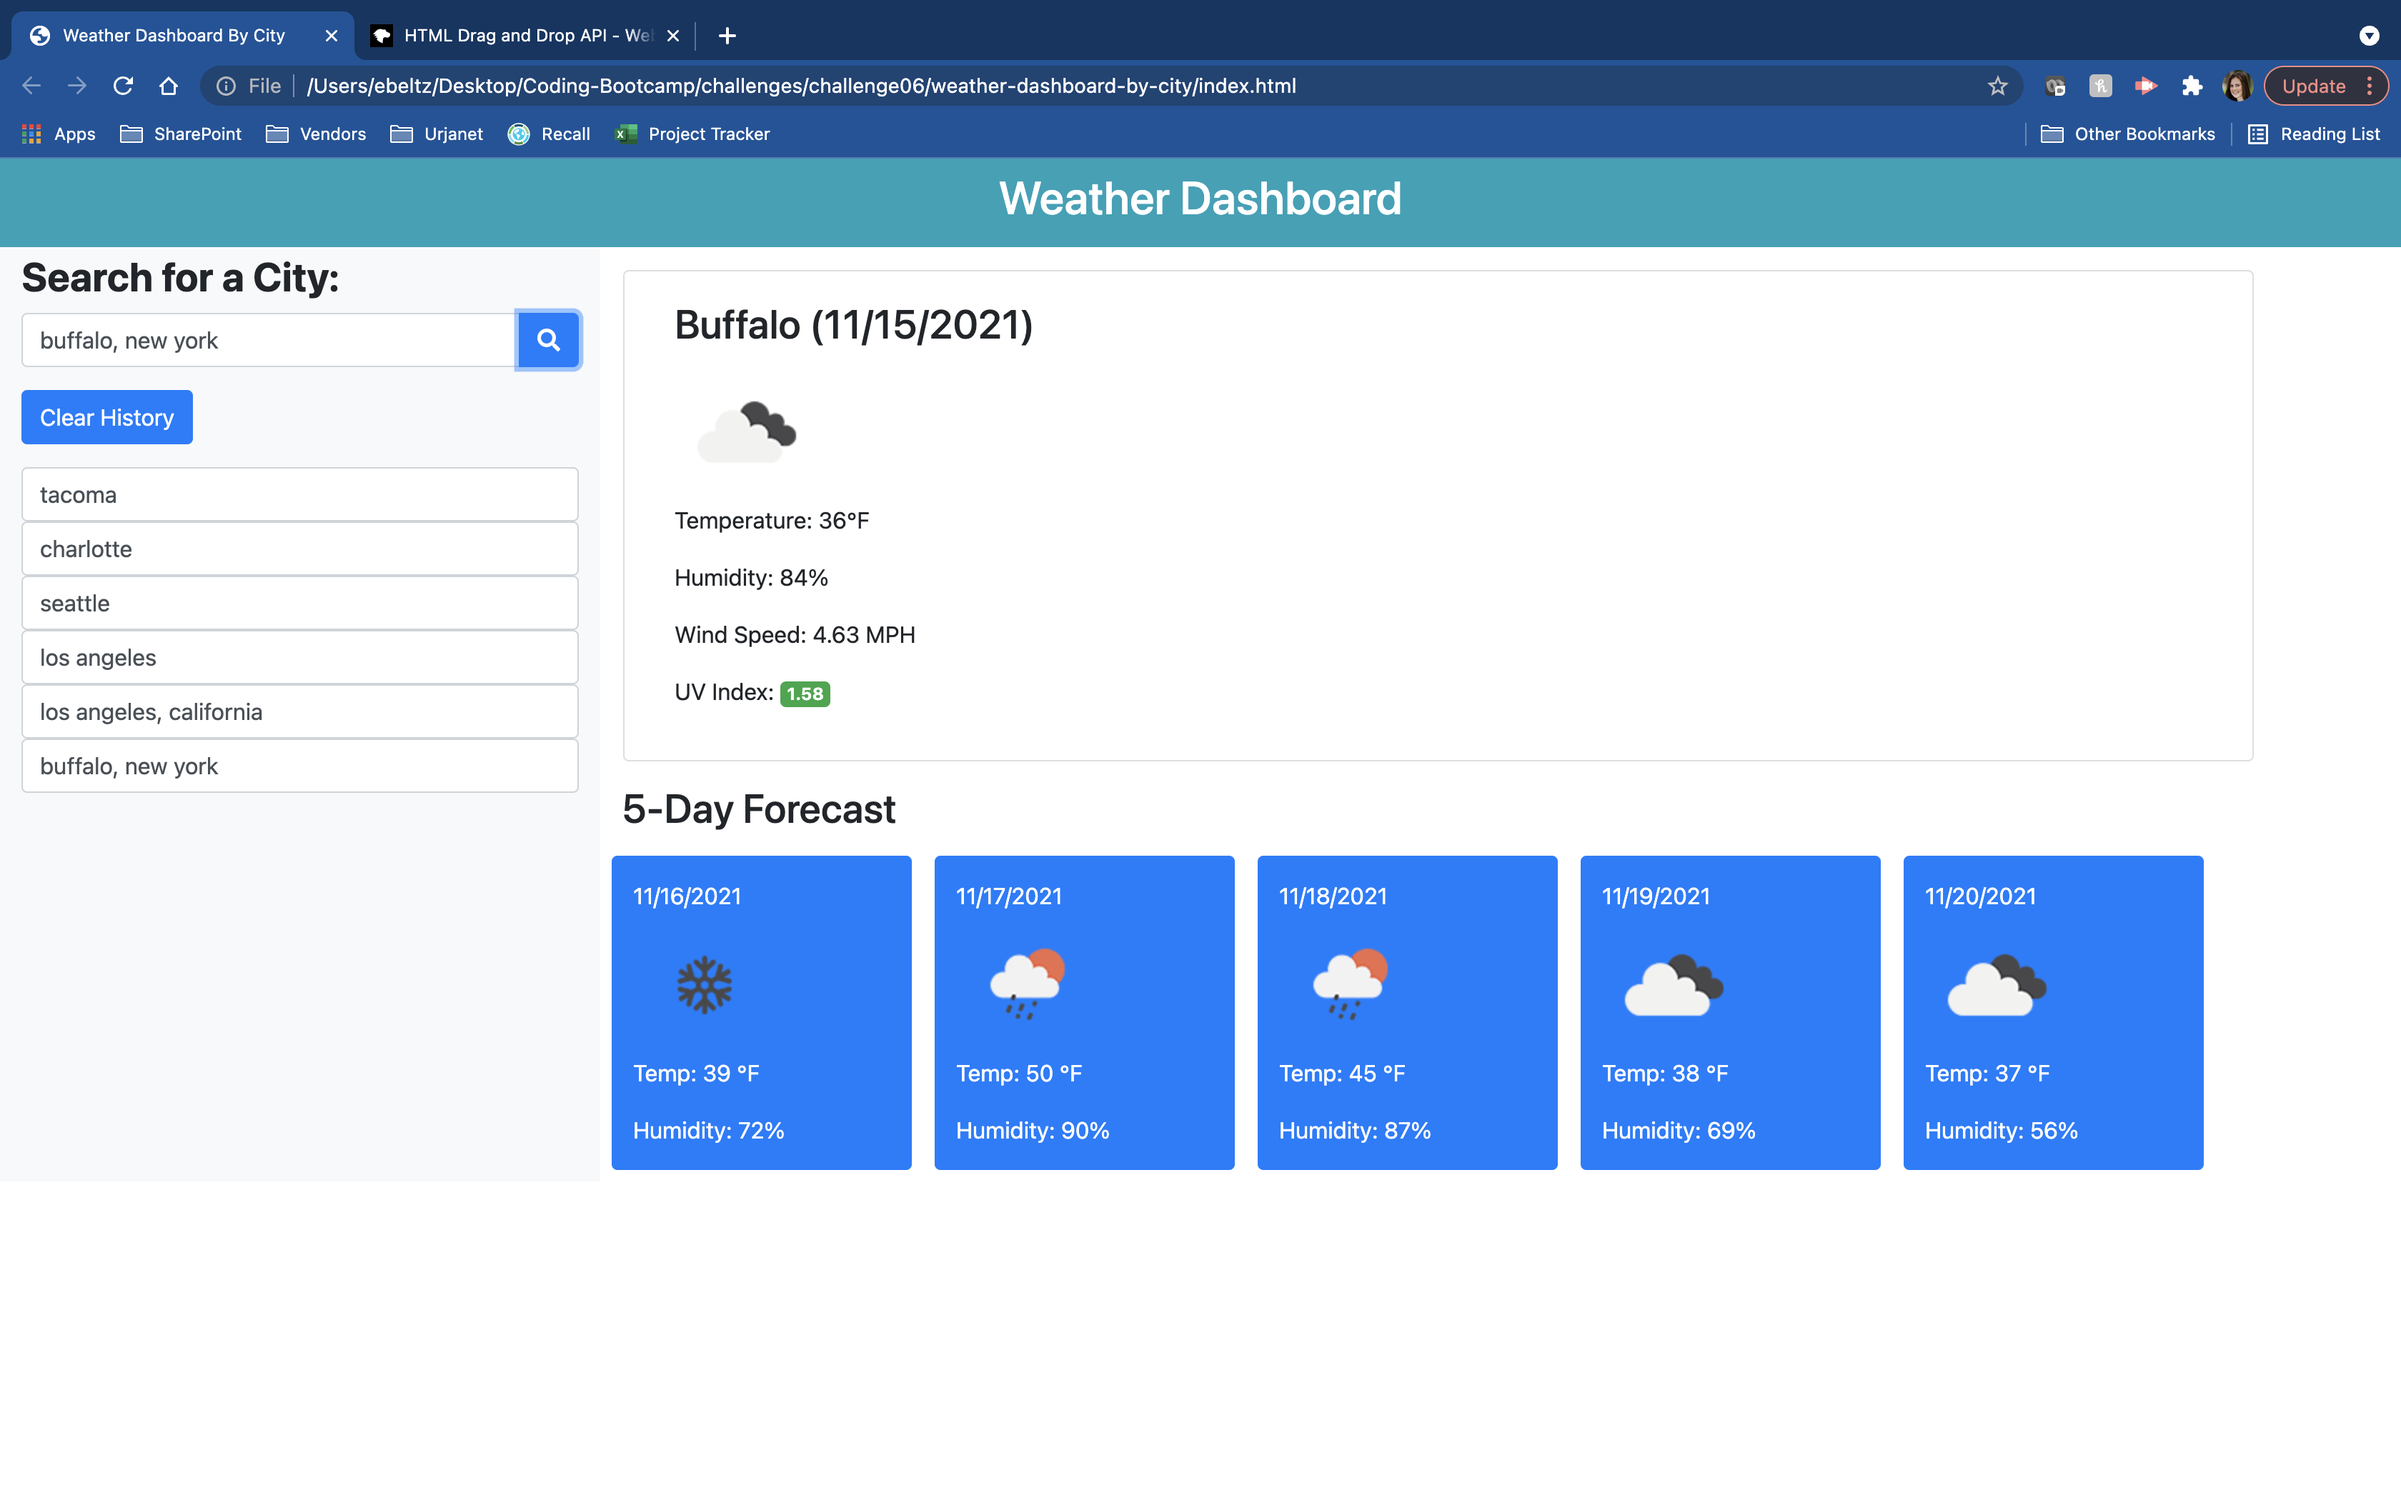
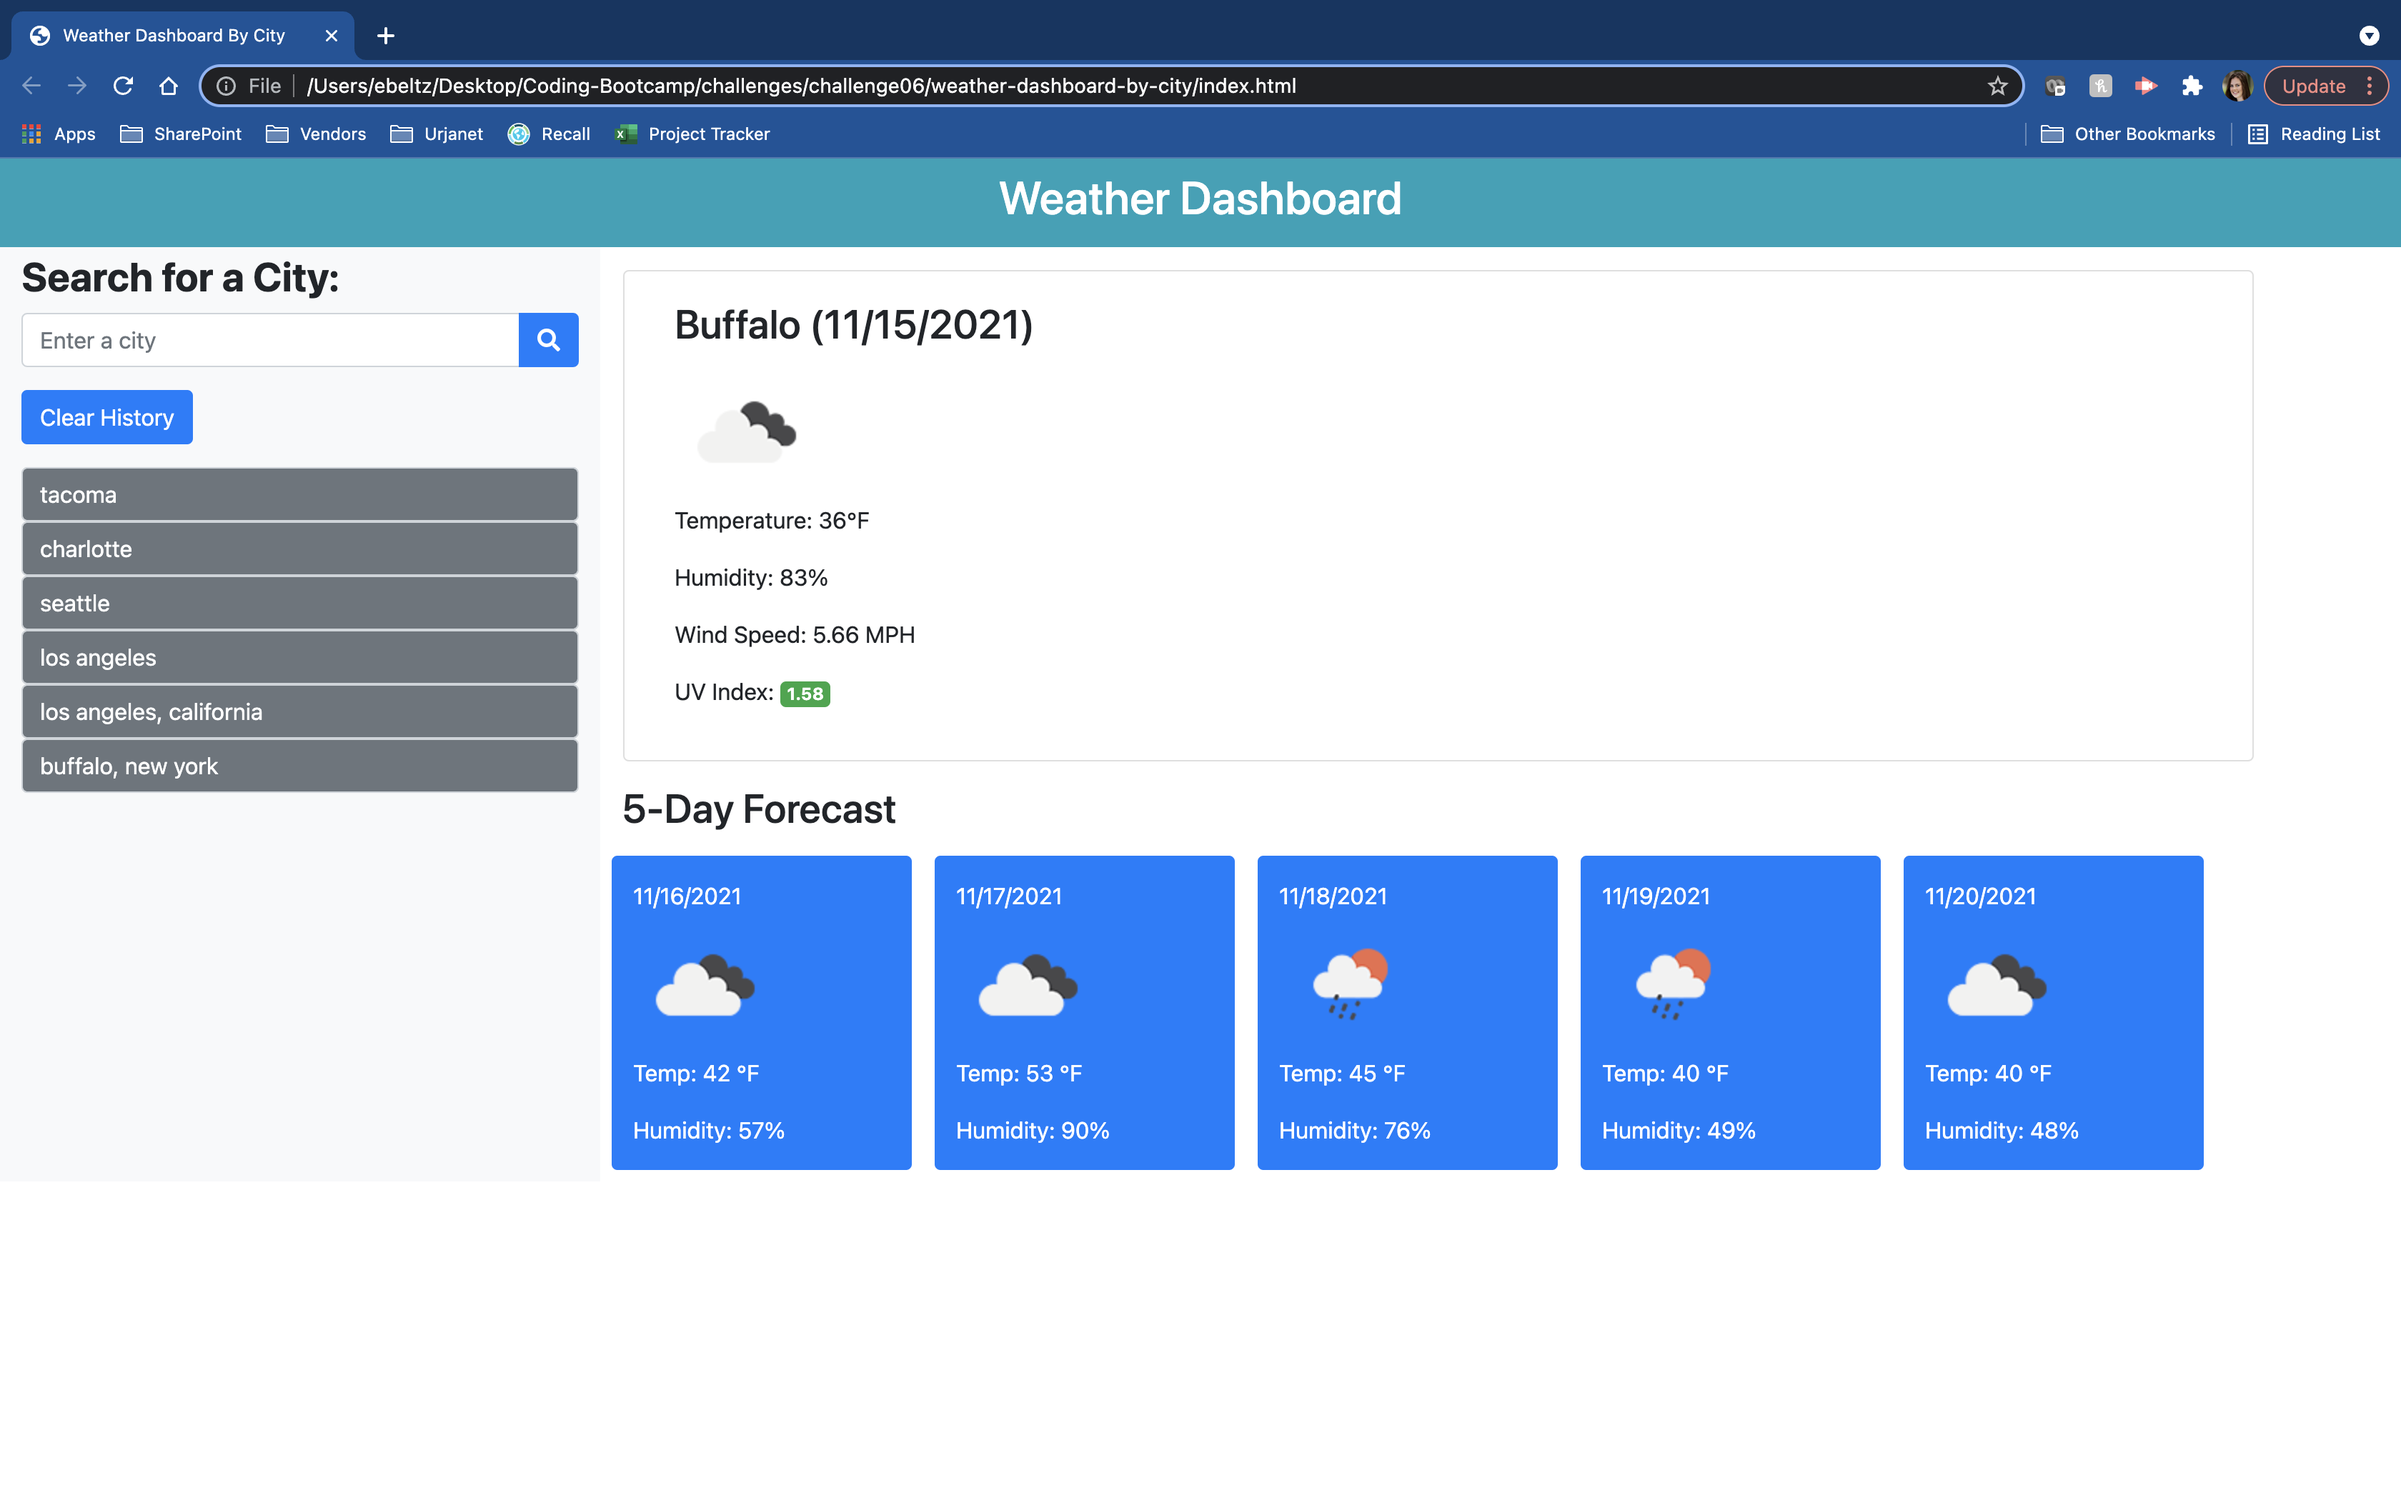
updated colors and screenshot on README

diff --git a/Assets/js/script.js b/Assets/js/script.js
@@ -120,7 +120,7 @@ function initPage() {
             const historyItem = document.createElement("input");
             historyItem.setAttribute("type", "text");
             historyItem.setAttribute("readonly", true);
-            historyItem.setAttribute("class", "form-control d-block bg-white");
+            historyItem.setAttribute("class", "form-control d-block bg-secondary text-white");
             historyItem.setAttribute("value", searchHistory[i]);
             historyItem.addEventListener("click", function() {
                 getWeather(historyItem.value);
